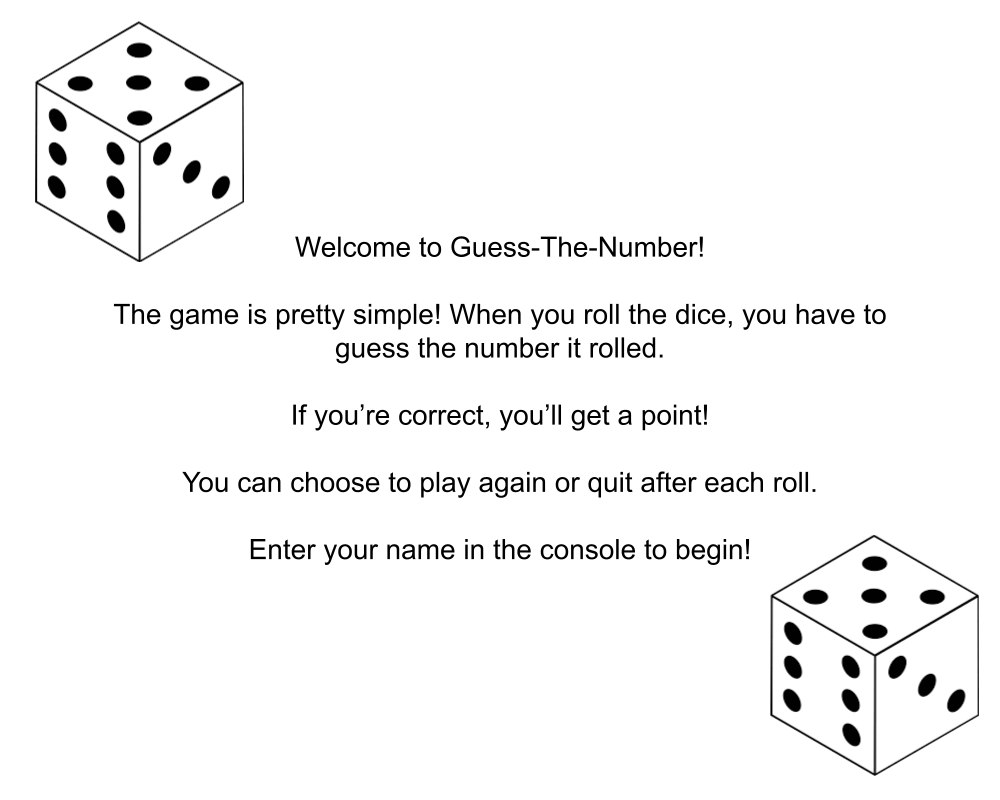
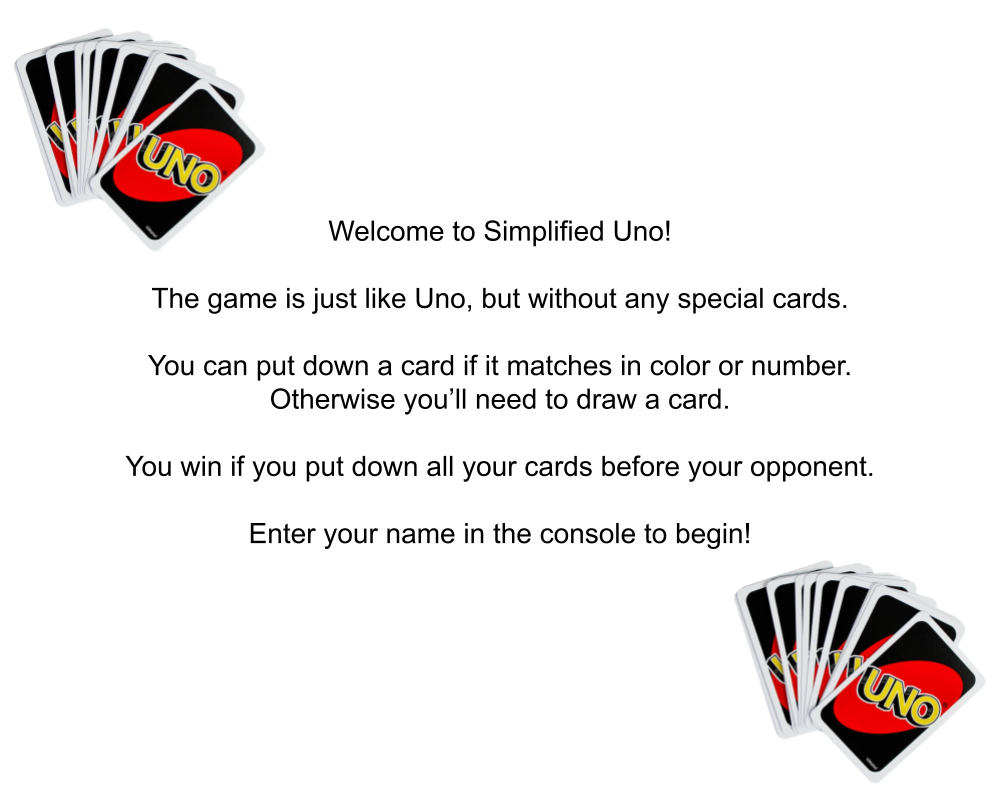
removed special cards, added new welcome image

diff --git a/src/Game.java b/src/Game.java
@@ -43,19 +43,12 @@ public class Game {
         Card topCard = deck.deal();
         System.out.println("Starting card: " + topCard);
         int currentPlayerIndex = 0;
-        boolean skipNextTurn = false;
 
         // Basically the game loop runs until a player's hand is empty
         // Or if all the cards have been used
         // Which is when there will be a return statement
         while (true) {
             Player currentPlayer = players.get(currentPlayerIndex);
-            if (skipNextTurn) {
-                System.out.println(currentPlayer.getName() + " is skipped!");
-                skipNextTurn = false;
-                currentPlayerIndex = (currentPlayerIndex + 1) % players.size();
-                continue;
-            }
 
             // Print out whose turn it is
             System.out.println(currentPlayer.getName() + "'s turn.");
@@ -99,34 +92,6 @@ public class Game {
                         topCard = playedCard;
                         // Tell the user what card they played
                         System.out.println("You played: " + playedCard);
-
-                        // Handle special cards
-                        // If the skip card is played, set the boolean equal to true
-                        if (playedCard.getRank().equals("Skip")) {
-                            skipNextTurn = true;
-                        }
-                        // If they played their draw two card
-                        else if (playedCard.getRank().equals("Draw Two")) {
-                            // Find the index of the next player
-                            int nextPlayerIndex = (currentPlayerIndex + 1) % players.size();
-                            // Create the next player
-                            Player nextPlayer = players.get(nextPlayerIndex);
-                            // Add two cards to the next player's hand
-                            for (int i = 0; i < 2; i++) {
-                                Card drawnCard = deck.deal();
-                                if (drawnCard != null) {
-                                    nextPlayer.addCard(drawnCard);
-                                }
-                                else {
-                                    System.out.println("Deck is empty. Unable to draw more cards.");
-                                    break;
-                                }
-                            }
-                            // Print a message saying who drew two cards
-                            System.out.println(nextPlayer.getName() + " drew two cards!");
-                            // Skip that player's turn
-                            currentPlayerIndex = nextPlayerIndex;
-                        }
                     }
                     // If it reaches here, the move was invalid
                     else {

diff --git a/src/GameViewer.java b/src/GameViewer.java
@@ -7,12 +7,14 @@ public class GameViewer extends JFrame {
     private static final int TOOLBAR_HEIGHT = 23;
     private final Game game;
 
-    private Image[] diceImages;
+    private Image[] cardImages;
+    private Image welcome;
 
     public GameViewer(Game game) {
         this.game = game;
 
-        diceImages = new Image[6];
+        cardImages = new Image[6];
+        welcome = new ImageIcon("Resources/welcome.png").getImage();
 
         this.setDefaultCloseOperation(EXIT_ON_CLOSE);
         this.setTitle("Guess The Number!");
